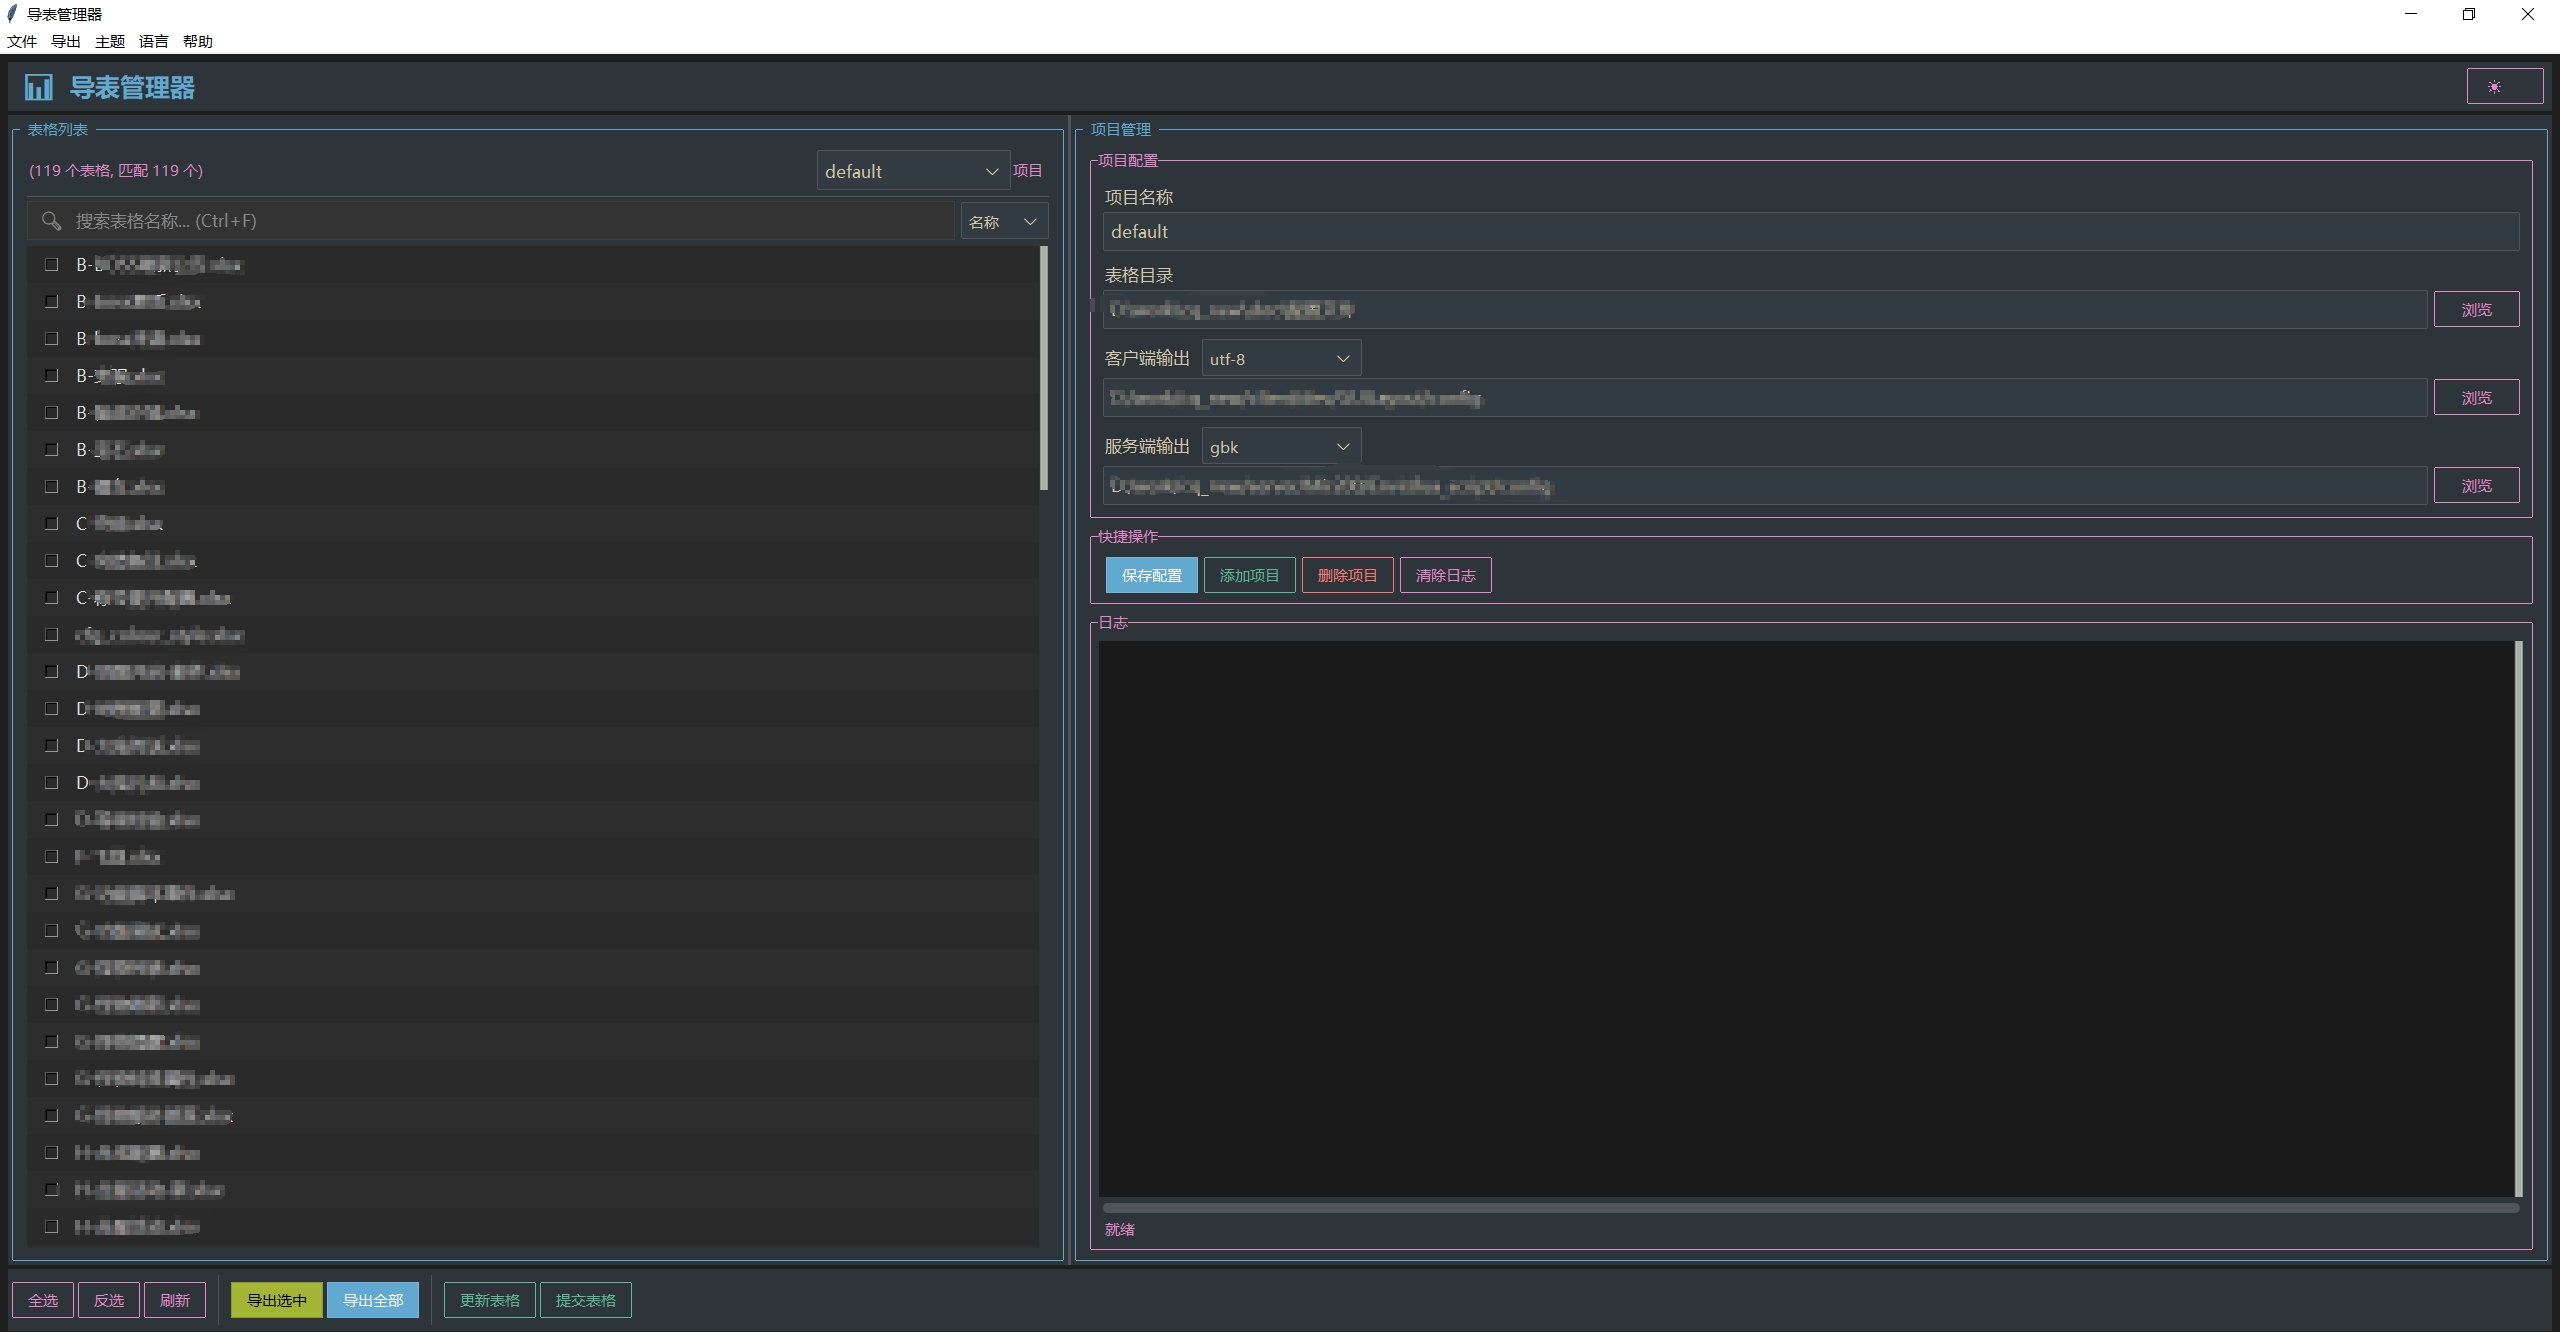
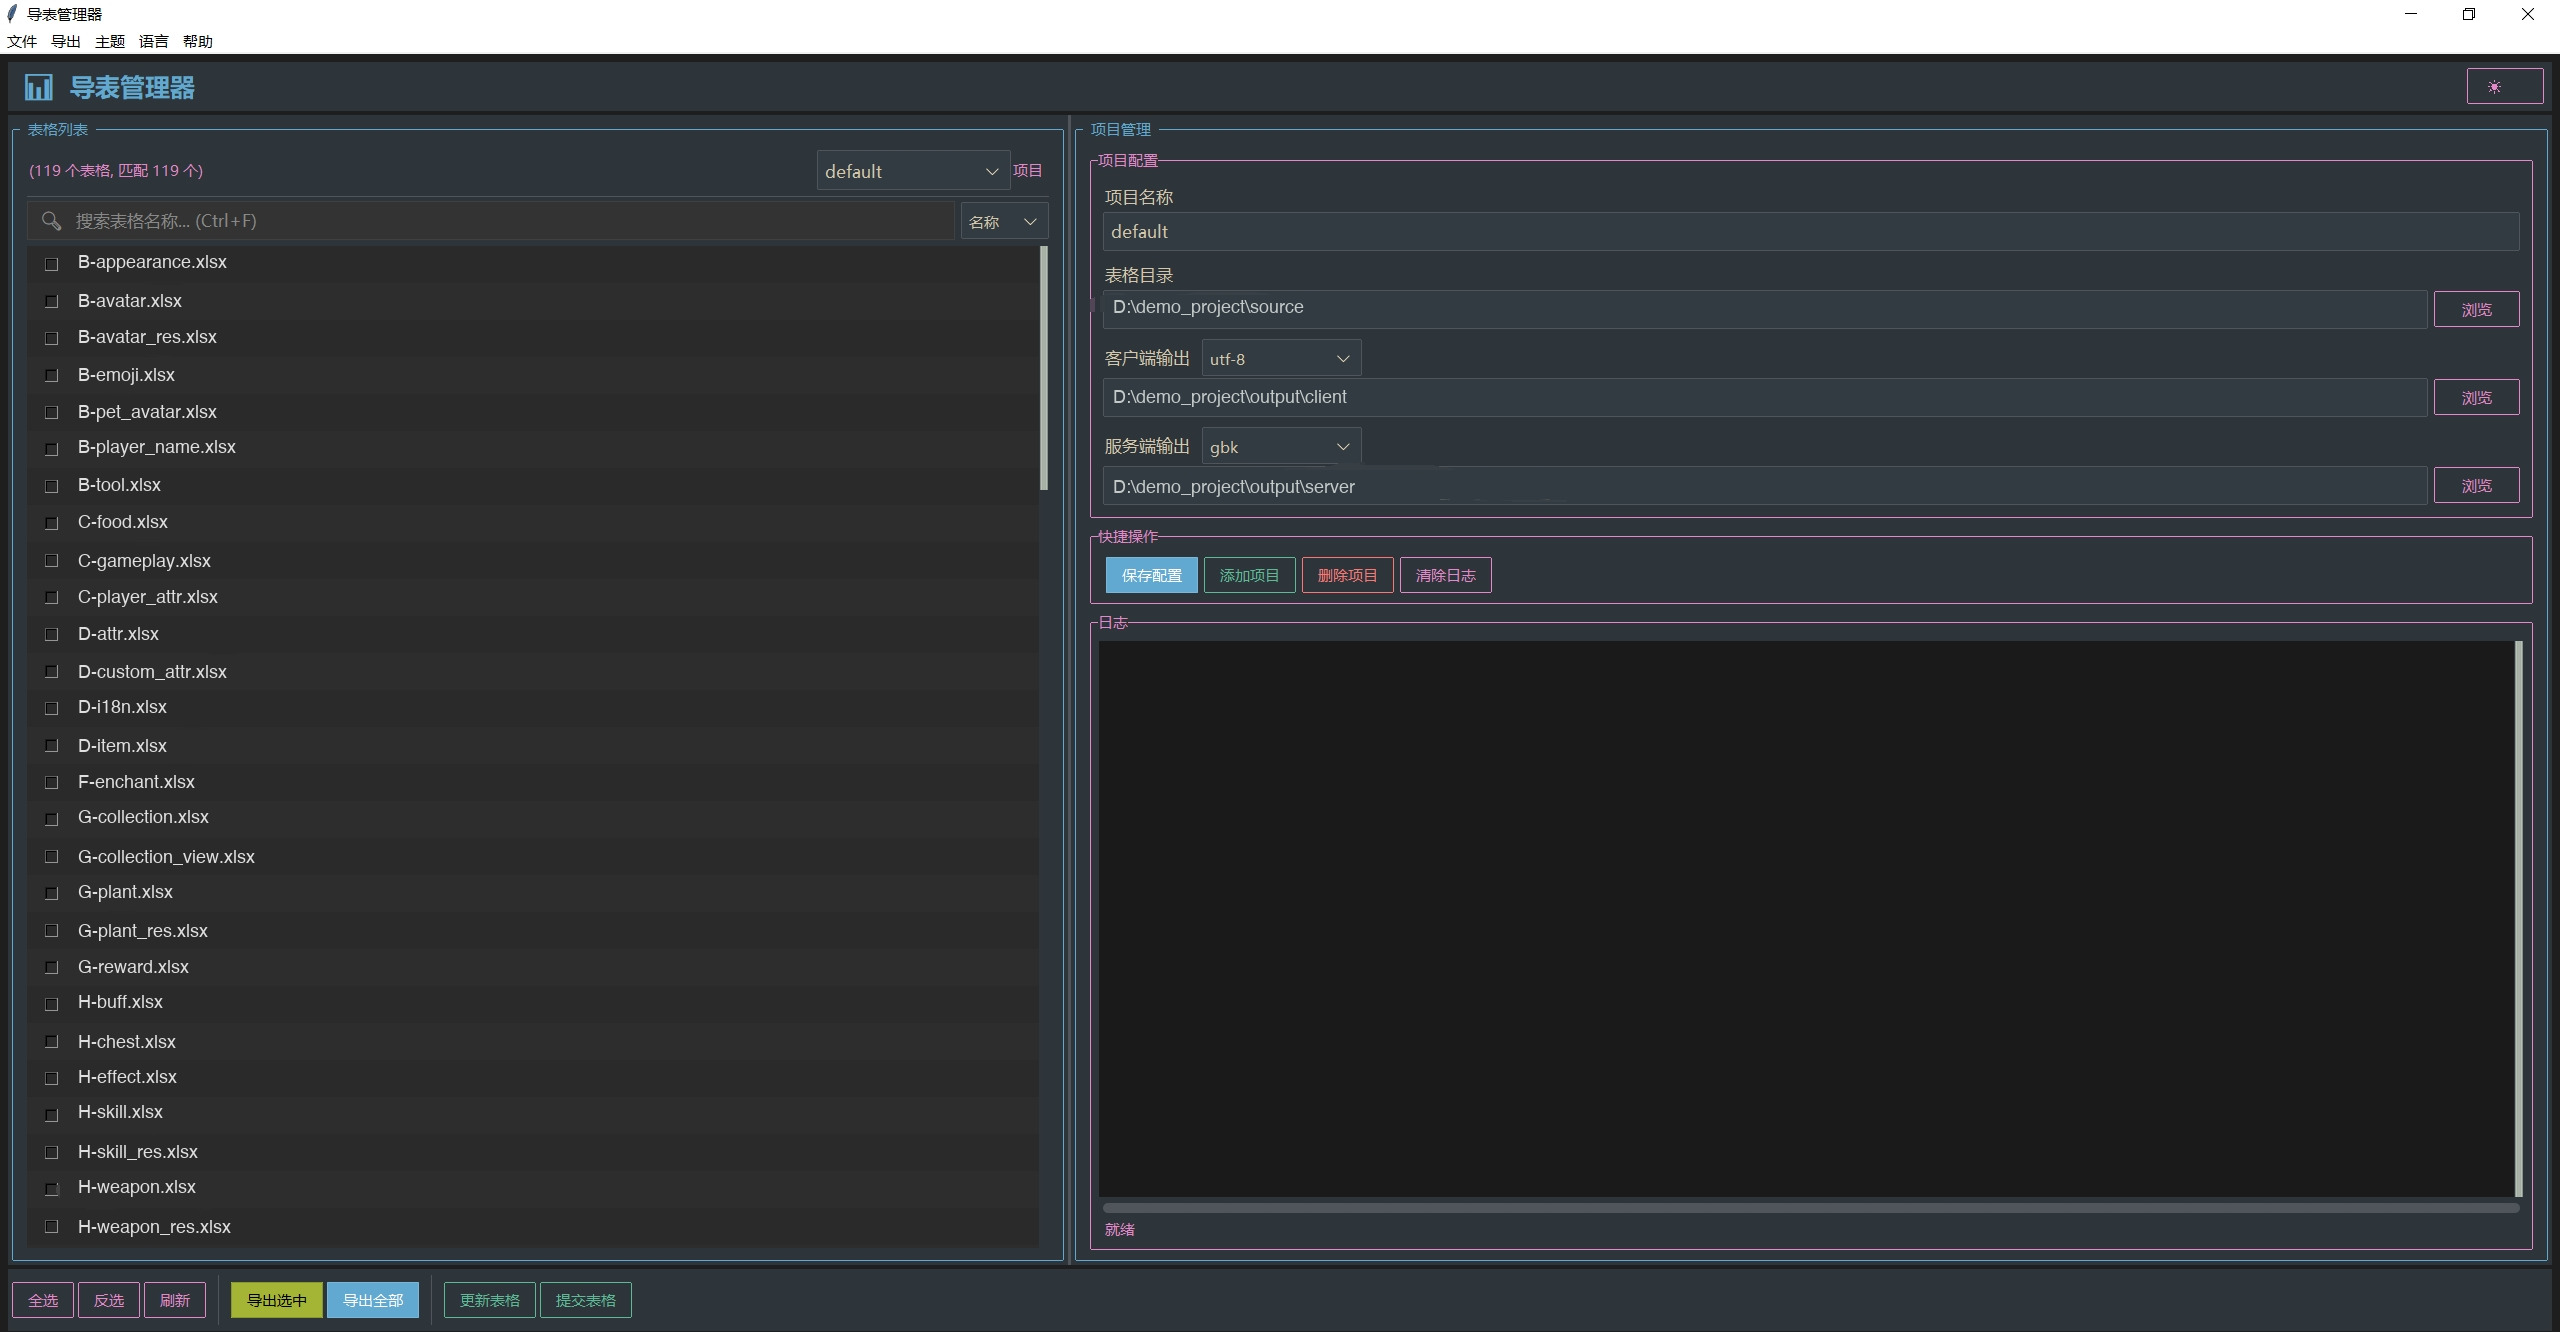
chore: strip personal information from the published files
The Chinese screenshot was taken from a real project, so it carried a
Windows home path and 27 real business table names. Both are replaced
with neutral placeholders drawn in a matching font, and the row
background is copied from the same row so there is no visible seam.

Also:
- README clone URLs pointed at the author's GitHub account; use a
  placeholder instead
- the macOS bundle identifier carried the author's initials
- commit as `san <noreply@example.com>` for this repository

History is deliberately left alone; this only cleans what ships from now on.

diff --git a/README.md b/README.md
@@ -67,7 +67,7 @@ Built with Python + Tkinter (ttkbootstrap). Runs on Windows and macOS.
 ## Run from source
 
 ```bash
-git clone https://github.com/d29107d/table_export.git
+git clone <repository-url> table_export
 cd table_export
 python -m pip install -r requirements.txt
 python main.py

diff --git a/README.zh-CN.md b/README.zh-CN.md
@@ -58,7 +58,7 @@ Python + Tkinter（ttkbootstrap）实现，支持 Windows 与 macOS。
 ## 从源码运行
 
 ```bash
-git clone https://github.com/d29107d/table_export.git
+git clone <仓库地址> table_export
 cd table_export
 python -m pip install -r requirements.txt
 python main.py
